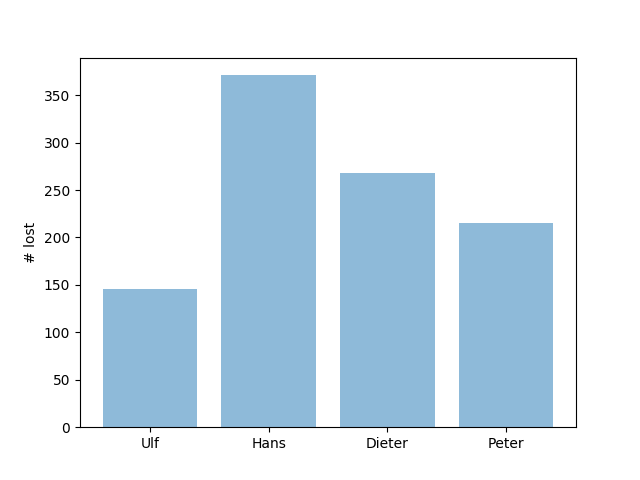
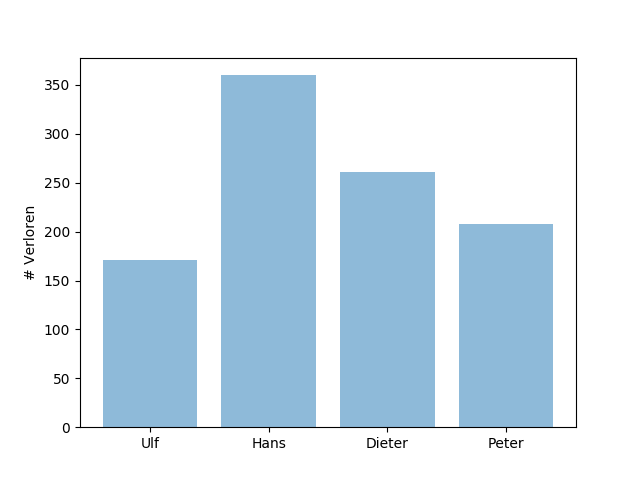
minor changes

diff --git a/sim.py b/sim.py
@@ -143,4 +143,4 @@ for pl in players:
 plt.bar(range(n_pl) , scores , align='center',alpha=0.5)
 plt.xticks(range(n_pl), names_s)
 plt.ylabel('# Verloren')
-plt.savefig('plot.png')l
+plt.savefig('plot.png')
